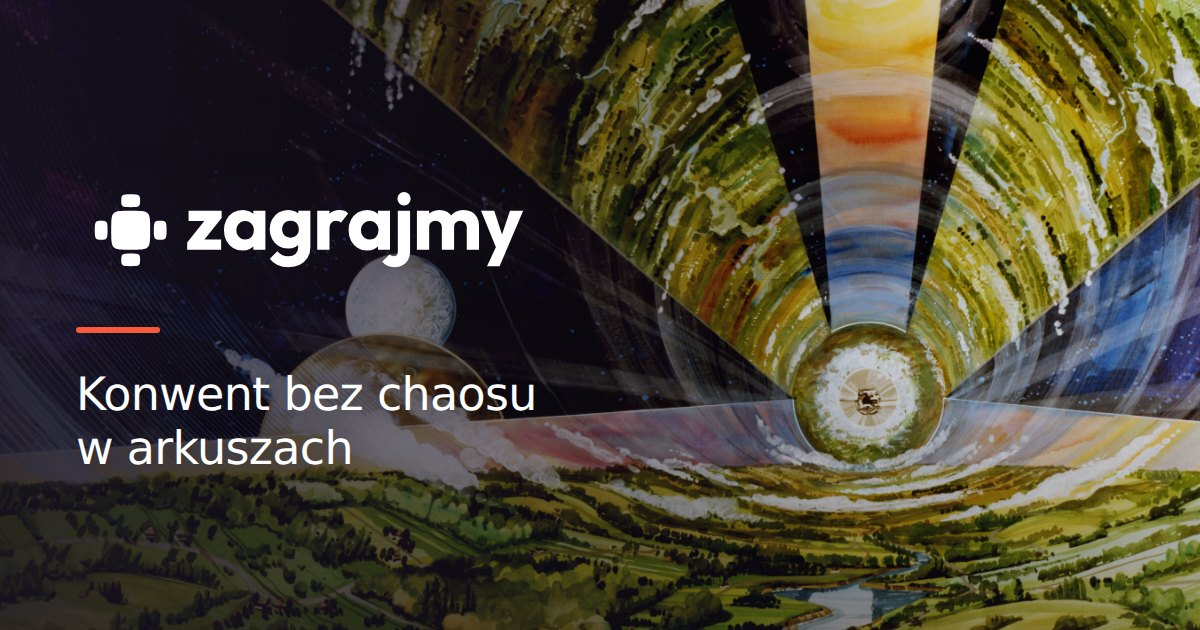
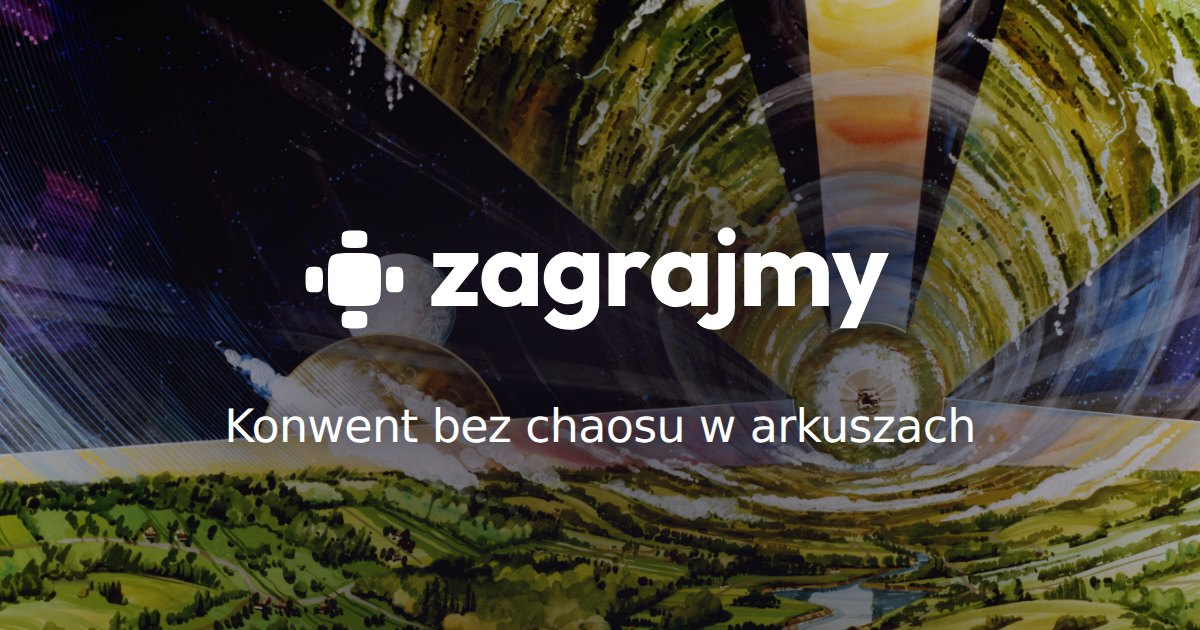
feat(brand): centre the OG card and swap the wedge scrim for a radial core
Drop the coral rule and both max-widths, centre the lockup and tagline,
and grow the lockup from 470px to 640px. The tagline now sets on one
line, so it no longer needs a measure.

Centring moved the type off the dark left edge and onto the cylinder's
end cap — the brightest part of the painting — which the left-anchored
wedge did not cover. Measured contrast floor under the text dropped to
1.61:1 with 3% of the text box failing.

Replace the wedge with an elliptical core centred on the content. That
restores the floor to 3.75:1 (0% failing) while covering *less* of the
painting than before: mean scrim alpha 45% against the wedge's 47%.

--scrim-angle is gone; --scrim-spread-x/y take its place.

diff --git a/scripts/og-image/template.html b/scripts/og-image/template.html
@@ -12,18 +12,18 @@
       rel="stylesheet">
 <style>
   :root {
-    /* Brand tokens, mirrored from client/src/index.css. */
-    --coral: #f85a3c;
+    /* Brand token, mirrored from client/src/index.css. */
     --warm-900: #252220;
 
     /* --- scrim knobs (tweak in the widget, paste back here) --- */
     --scrim-tint: 24 18 32;      /* rgb triplet the scrim darkens toward */
-    --scrim-opacity: 0.88;       /* alpha at the anchored edge */
-    --scrim-angle: 96deg;        /* gradient direction */
-    --scrim-mid-stop: 38%;       /* where the falloff reaches half strength */
-    --scrim-end-stop: 72%;       /* where the scrim is fully clear */
-    --scrim-floor: 0.16;         /* uniform darkening across the whole frame */
-    --scrim-vignette: 0.34;       /* extra weight pulled into the bottom edge */
+    --scrim-opacity: 0.72;       /* alpha at the centre of the core */
+    --scrim-spread-x: 68%;       /* core half-width */
+    --scrim-spread-y: 62%;       /* core half-height */
+    --scrim-mid-stop: 42%;       /* where the falloff reaches half strength */
+    --scrim-end-stop: 100%;      /* where the core is fully clear */
+    --scrim-floor: 0.2;          /* uniform darkening across the whole frame */
+    --scrim-vignette: 0.3;       /* extra weight pulled into the bottom edge */
 
     /* --- text shadow knobs --- */
     --text-shadow-blur: 26px;
@@ -69,15 +69,17 @@
     transform-origin: center;
   }
 
-  /* Three stacked passes: a directional wedge anchored to the text side, a
-     uniform floor so mid-tones in the painting cannot creep up under the
-     wordmark, and a bottom vignette that seats the card on darker ground. */
+  /* Three stacked passes: an elliptical core centred on the content, a uniform
+     floor so mid-tones in the painting cannot creep up under the wordmark, and
+     a bottom vignette that seats the card on darker ground. The core is radial
+     rather than a side wedge because the type is centred over the brightest
+     part of the painting -- the cylinder's end cap. */
   .card__scrim {
     position: absolute;
     inset: 0;
     background:
-      linear-gradient(
-        var(--scrim-angle),
+      radial-gradient(
+        ellipse var(--scrim-spread-x) var(--scrim-spread-y) at 50% 50%,
         rgb(var(--scrim-tint) / var(--scrim-opacity)) 0%,
         rgb(var(--scrim-tint) / calc(var(--scrim-opacity) * 0.5)) var(--scrim-mid-stop),
         rgb(var(--scrim-tint) / 0) var(--scrim-end-stop)
@@ -95,10 +97,11 @@
     inset: 0;
     display: flex;
     flex-direction: column;
+    align-items: center;
     justify-content: center;
     gap: 34px;
-    padding: 0 0 0 76px;
-    max-width: 760px;
+    padding: 0 72px;
+    text-align: center;
     color: #fff;
     text-shadow:
       0 var(--text-shadow-y) var(--text-shadow-blur)
@@ -107,7 +110,7 @@
 
   /* The lockup ships as outlined paths, so it needs no webfont to be correct. */
   .card__lockup {
-    width: 470px;
+    width: 640px;
     height: auto;
     display: block;
     filter: drop-shadow(
@@ -121,15 +124,6 @@
     font-weight: 500;
     line-height: 1.18;
     letter-spacing: -0.015em;
-    max-width: 19ch;
-  }
-
-  .card__rule {
-    width: 84px;
-    height: 6px;
-    border-radius: 999px;
-    background: var(--coral);
-    box-shadow: 0 2px 18px rgb(var(--scrim-tint) / 0.55);
   }
 </style>
 
@@ -142,7 +136,6 @@
       <title>zagrajmy</title>
       <!--LOCKUP_BODY-->
     </svg>
-    <div class="card__rule"></div>
     <p class="card__tagline"><!--TAGLINE--></p>
   </div>
 </div>
